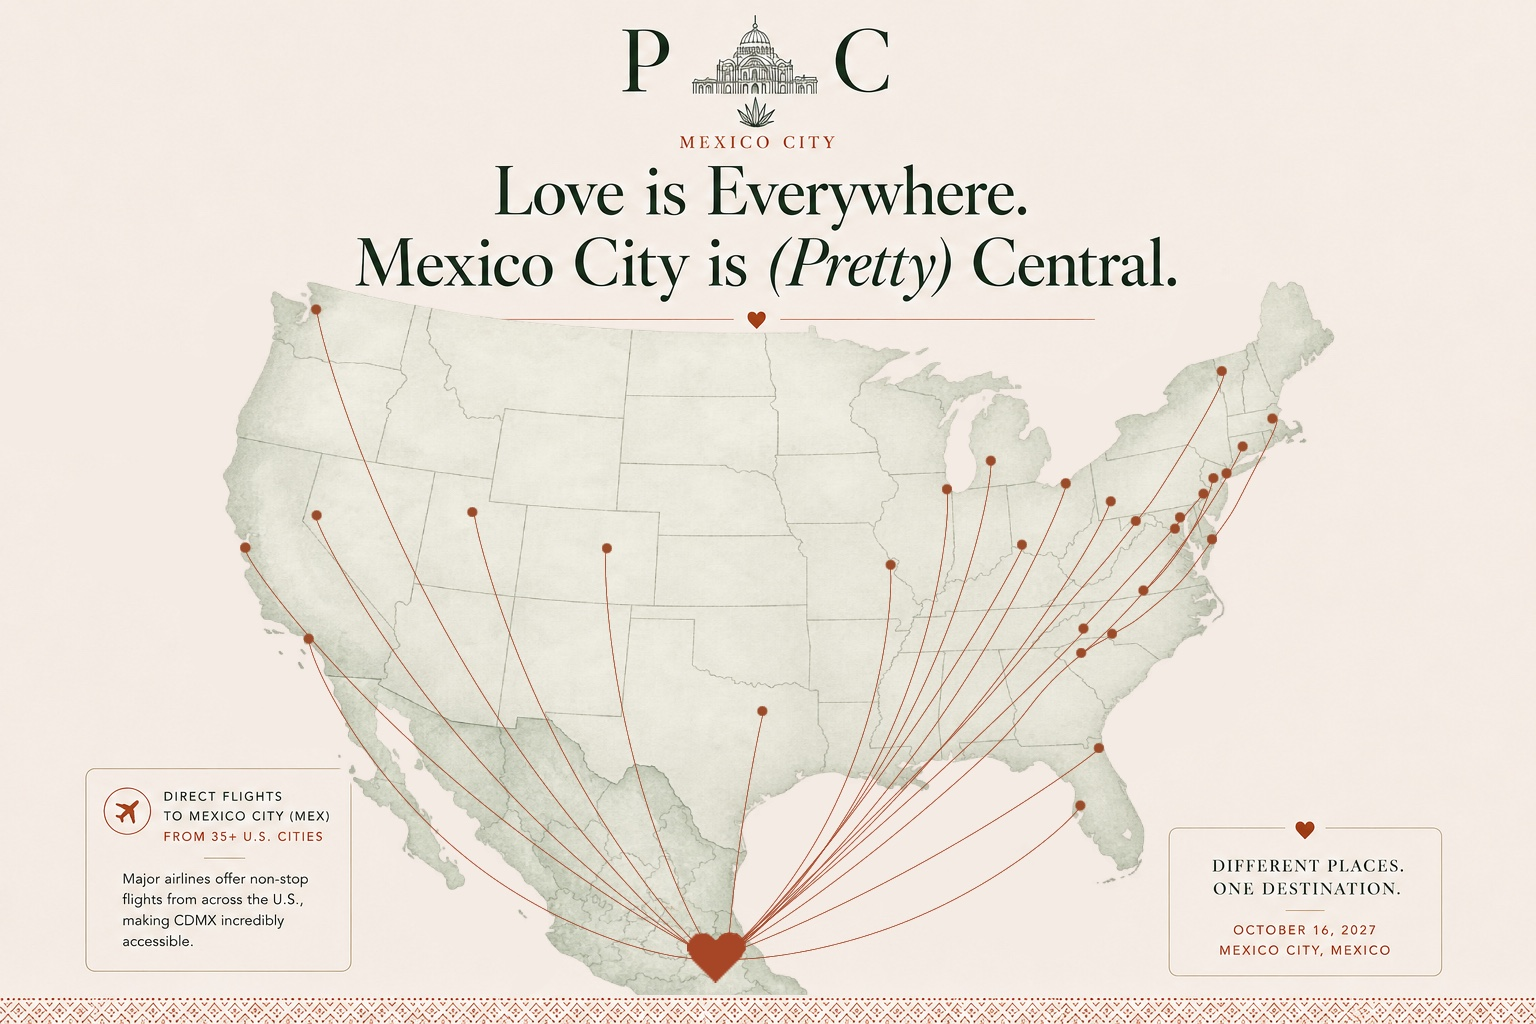
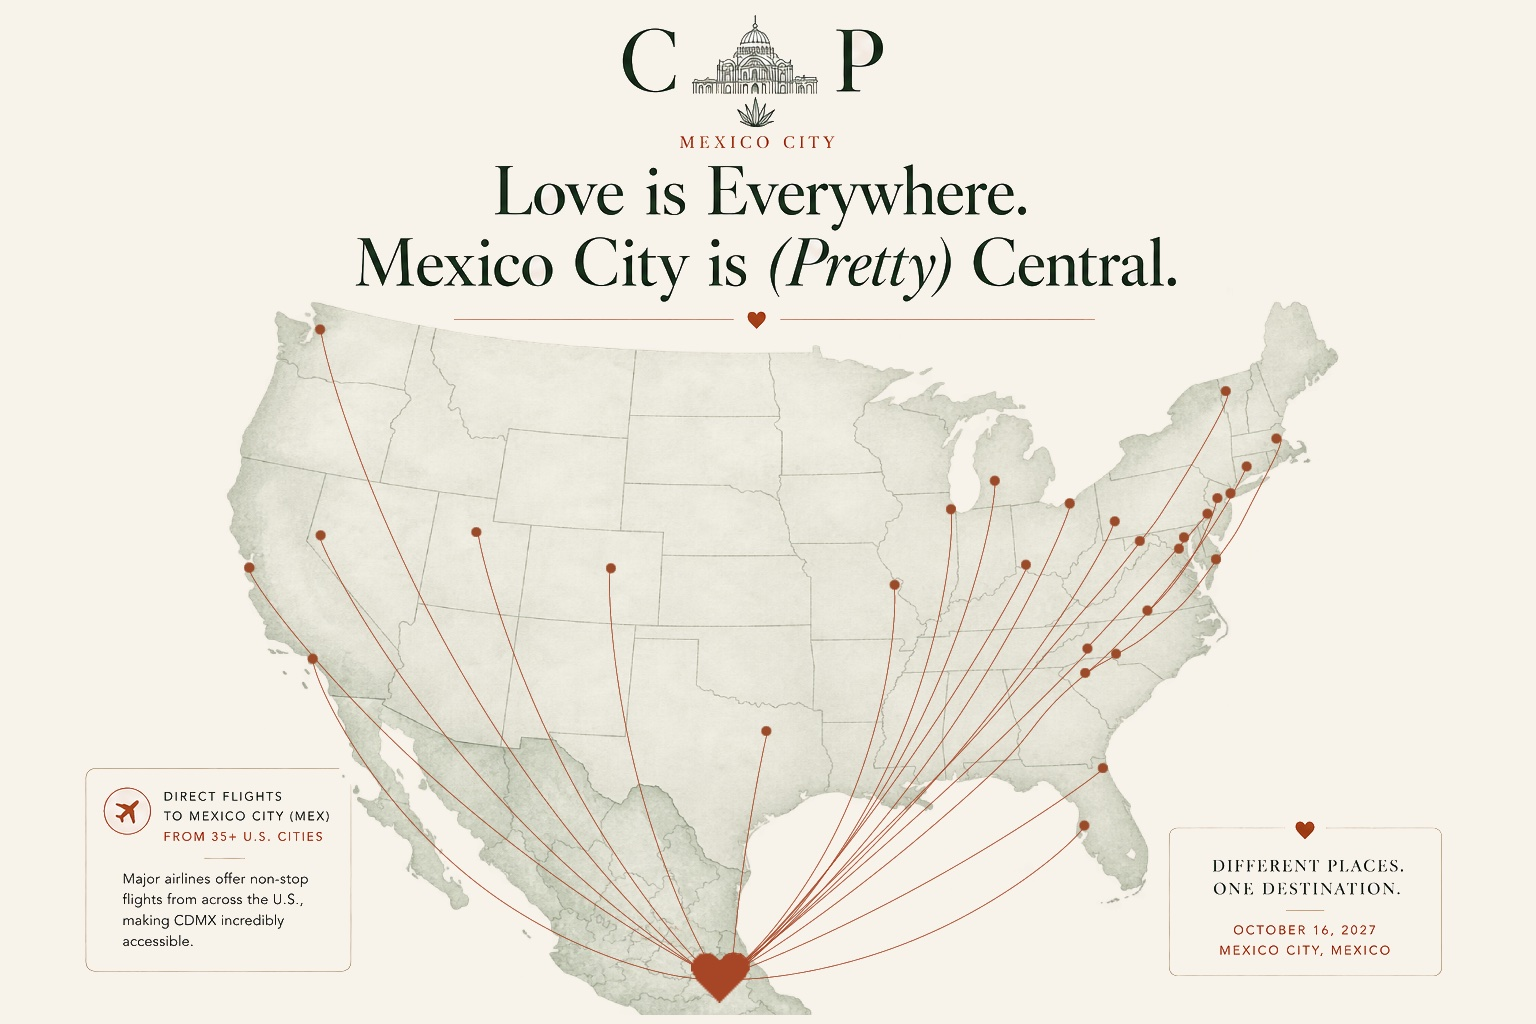
Remove RSVP deadline and update love map

diff --git a/assets/js/content.js b/assets/js/content.js
@@ -10,7 +10,8 @@ const WEDDING = {
   couple: { partnerOne: "Caitlin", partnerTwo: "Paul", fullNames: "Caitlin & Paul Uhrmacher" },
   date: { iso: "2027-10-16T17:00:00-06:00", display: "October 16, 2027", short: "10.16.27" },
   location: { city: "Mexico City", country: "Mexico", venue: "Casa Xipe" },
-  rsvpDeadline: { iso: "2027-08-01", display: "August 1, 2027" },
+  // Set to { iso: "YYYY-MM-DD", display: "Month D, YYYY" } once the deadline is known.
+  rsvpDeadline: null,
 };
 
 // Countdown target - used by main.js
@@ -220,7 +221,9 @@ const FAQ = [
     category: "RSVP",
     items: [
       { q: "What happens after I RSVP?", a: "You're all set! Your RSVP includes your meal choice and where you're staying, so there's nothing else to do unless your plans change - in that case, just reach out and let us know. We'll follow up closer to the date with any final details." },
-      { q: "By when do I need to RSVP?", a: "Please RSVP by " + WEDDING.rsvpDeadline.display + " so we can finalize headcounts with our vendors." },
+      { q: "By when do I need to RSVP?", a: WEDDING.rsvpDeadline
+        ? "Please RSVP by " + WEDDING.rsvpDeadline.display + " so we can finalize headcounts with our vendors."
+        : "We'll share the RSVP deadline soon - in the meantime, the earlier the better so we can finalize headcounts with our vendors." },
     ],
   },
 ];

diff --git a/rsvp.html b/rsvp.html
@@ -50,7 +50,7 @@
   <div class="container" style="max-width:760px;">
     <div class="rsvp-shell reveal">
 
-      <div class="deadline-strip">
+      <div class="deadline-strip" data-deadline-strip>
         <span class="small-caps" style="color:var(--clay-dark);">Please respond by</span>
         <strong id="rsvp-deadline"></strong>
       </div>
@@ -145,7 +145,11 @@
 <script src="assets/js/site-gate.js"></script>
 <script src="assets/js/rsvp.js"></script>
 <script>
-  document.getElementById('rsvp-deadline').textContent = WEDDING.rsvpDeadline.display;
+  if(WEDDING.rsvpDeadline){
+    document.getElementById('rsvp-deadline').textContent = WEDDING.rsvpDeadline.display;
+  } else {
+    document.querySelector('[data-deadline-strip]').style.display = 'none';
+  }
 </script>
 </body>
 </html>

diff --git a/assets/js/rsvp.js b/assets/js/rsvp.js
@@ -22,7 +22,7 @@
   // Past the deadline, lock the form instead of silently accepting (or
   // silently rejecting) late changes - guests are pointed to contact you
   // directly instead.
-  const deadlinePassed = new Date() > new Date(WEDDING.rsvpDeadline.iso + 'T23:59:59');
+  const deadlinePassed = !!WEDDING.rsvpDeadline && new Date() > new Date(WEDDING.rsvpDeadline.iso + 'T23:59:59');
   if(deadlinePassed){
     searchStep.style.display = 'none';
     foundStep.style.display = 'none';
